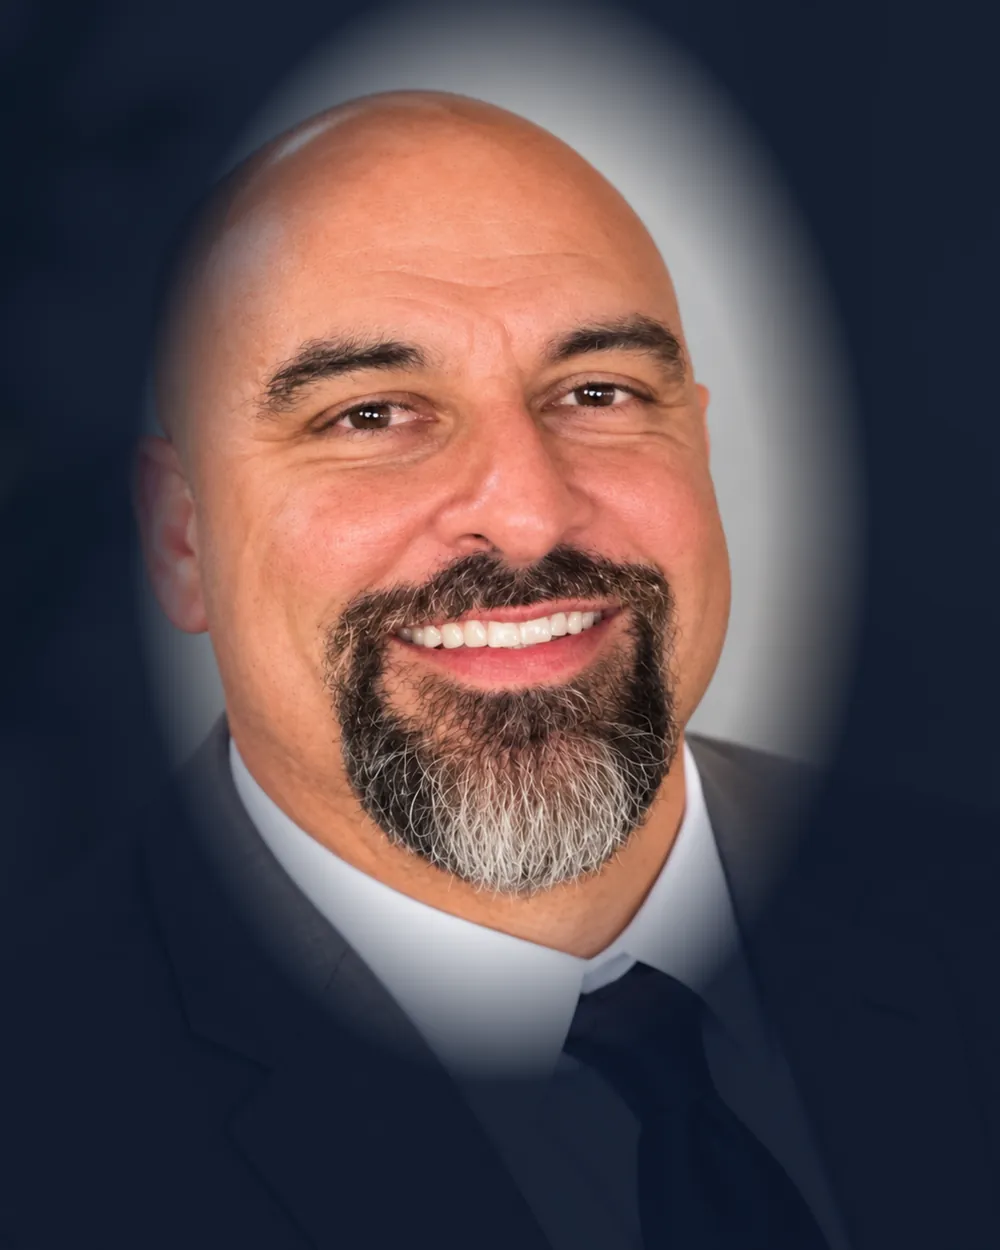
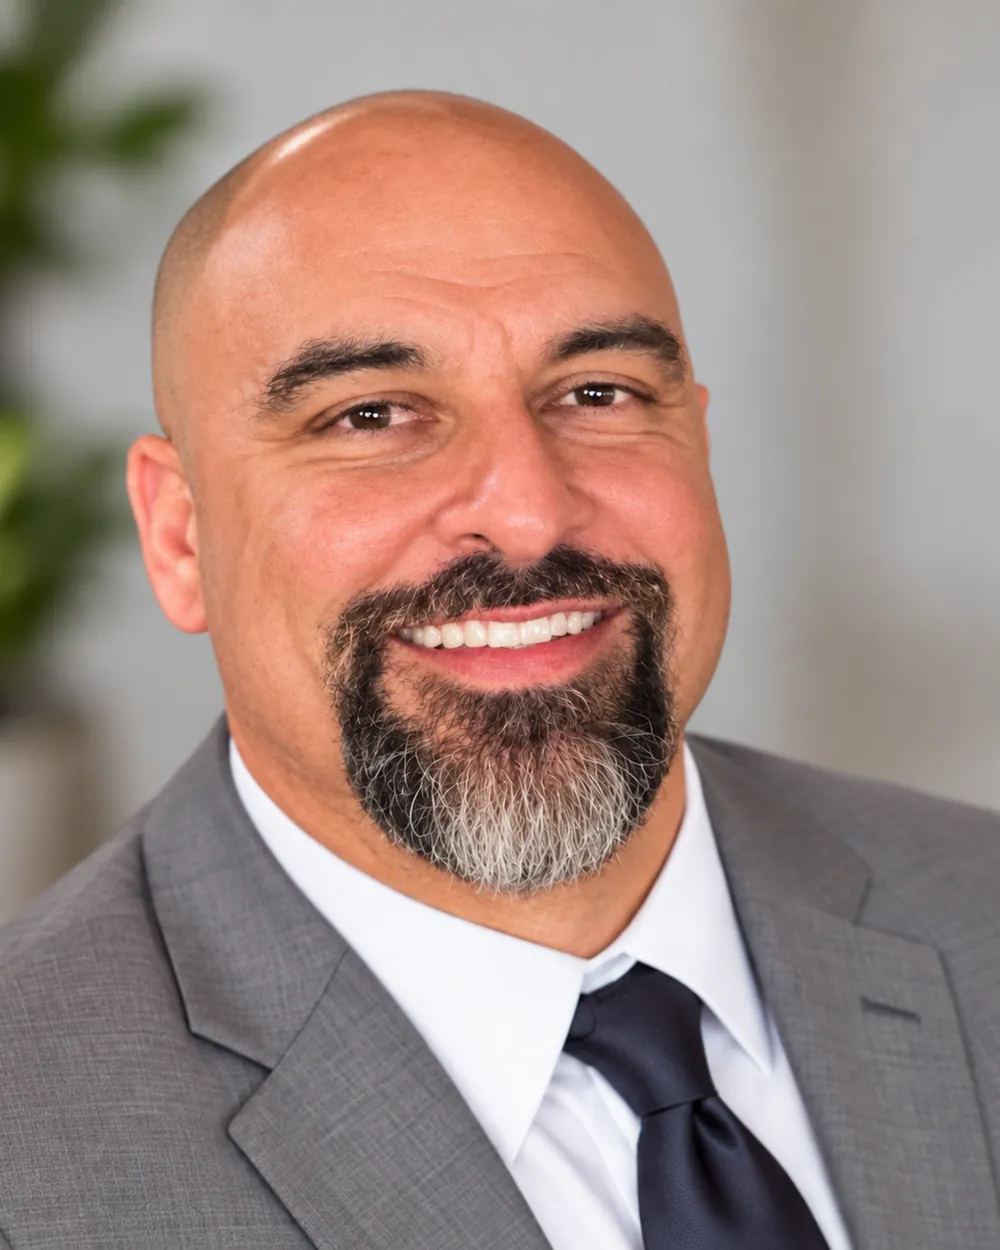
Hero: full portrait with navy gradient fade-in
Claude-Session: https://claude.ai/code/session_01AV6qtp1tue4KhNLdXf5NYL

diff --git a/public/index.html b/public/index.html
@@ -110,8 +110,9 @@ img{max-width:100%;display:block}
 .hero h1 em{font-style:italic;color:var(--gold-2)}
 .hero p.lead{font-size:19px;color:var(--muted);max-width:520px;margin:0;text-wrap:pretty}
 .hero .ctas{display:flex;gap:16px;flex-wrap:wrap;margin-top:10px}
-.cardwrap{position:relative;min-height:640px}
-.portrait{position:absolute;left:50%;top:0;transform:translateX(-50%);width:min(640px,100%);height:740px;object-fit:cover;object-position:50% 0;opacity:.42;filter:saturate(.45) contrast(1.02) brightness(.8);-webkit-mask-image:radial-gradient(ellipse 50% 58% at 50% 42%,#000 25%,rgba(0,0,0,.45) 60%,transparent 88%);mask-image:radial-gradient(ellipse 50% 58% at 50% 42%,#000 25%,rgba(0,0,0,.45) 60%,transparent 88%);pointer-events:none}
+.cardwrap{position:relative;min-height:700px}
+.portrait{position:absolute;left:50%;top:0;transform:translateX(-50%);width:min(600px,100%);height:750px;object-fit:cover;object-position:50% 0;opacity:.9;filter:saturate(.8) contrast(1.03);-webkit-mask-image:linear-gradient(90deg,transparent 0%,rgba(0,0,0,.4) 20%,#000 45%,#000 80%,transparent 100%),linear-gradient(180deg,transparent 0%,#000 16%,#000 62%,transparent 100%);-webkit-mask-composite:source-in;mask-image:linear-gradient(90deg,transparent 0%,rgba(0,0,0,.4) 20%,#000 45%,#000 80%,transparent 100%),linear-gradient(180deg,transparent 0%,#000 16%,#000 62%,transparent 100%);mask-composite:intersect;pointer-events:none}
+.cardwrap::after{content:"";position:absolute;inset:0;background:linear-gradient(90deg,var(--navy) 0%,rgba(11,21,40,.55) 22%,rgba(11,21,40,0) 55%),linear-gradient(180deg,rgba(11,21,40,0) 55%,var(--navy) 100%);pointer-events:none}
 
 /* strip */
 .strip{border-top:1px solid rgba(200,164,77,.2);border-bottom:1px solid rgba(200,164,77,.2);min-height:76px;display:flex;align-items:center;justify-content:space-between;gap:20px;flex-wrap:wrap;padding:20px 8px}
@@ -176,8 +177,8 @@ img{max-width:100%;display:block}
 @media (max-width:980px){
   .nav .links{display:none}
   .hero{grid-template-columns:1fr;padding:110px 0 60px;min-height:0}
-  .cardwrap{min-height:480px}
-  .portrait{height:520px;width:min(440px,100%)}
+  .cardwrap{min-height:520px}
+  .portrait{height:560px;width:min(460px,100%)}
   .sechead{grid-template-columns:1fr;padding:96px 0 48px;gap:14px}
   .co{padding:24px;gap:24px;grid-template-columns:1fr}
   .co .photo,.co .text{grid-column:auto}
